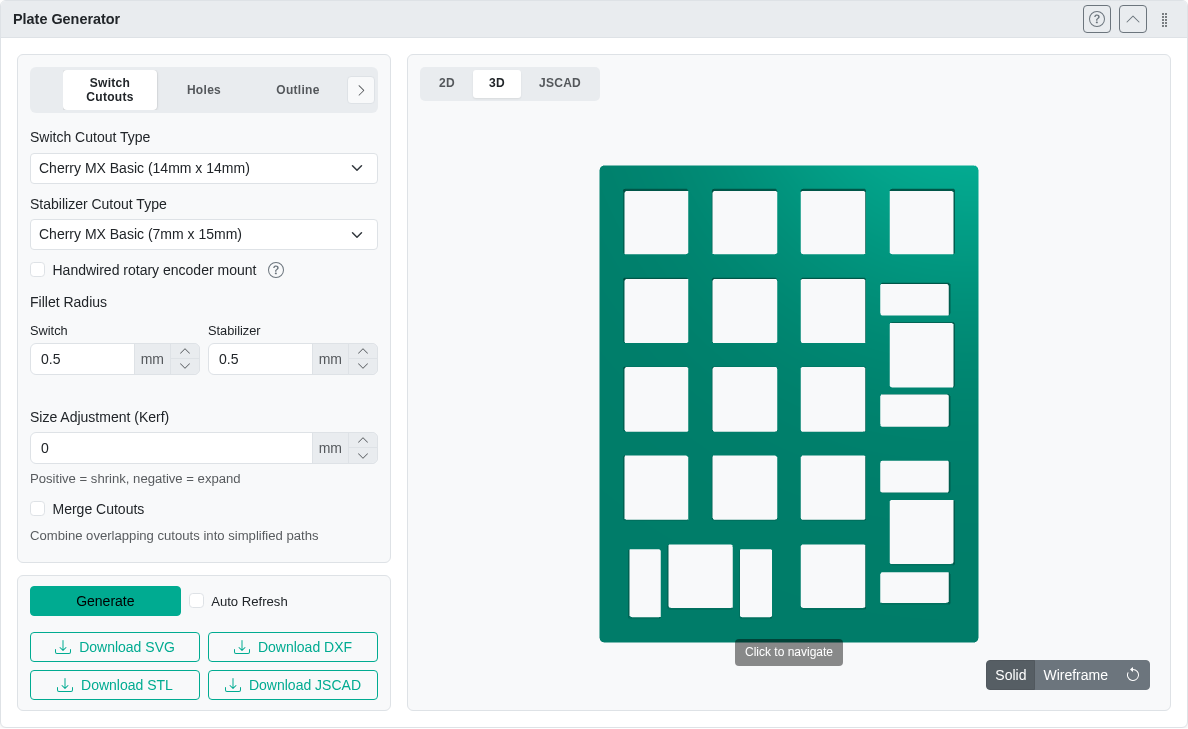
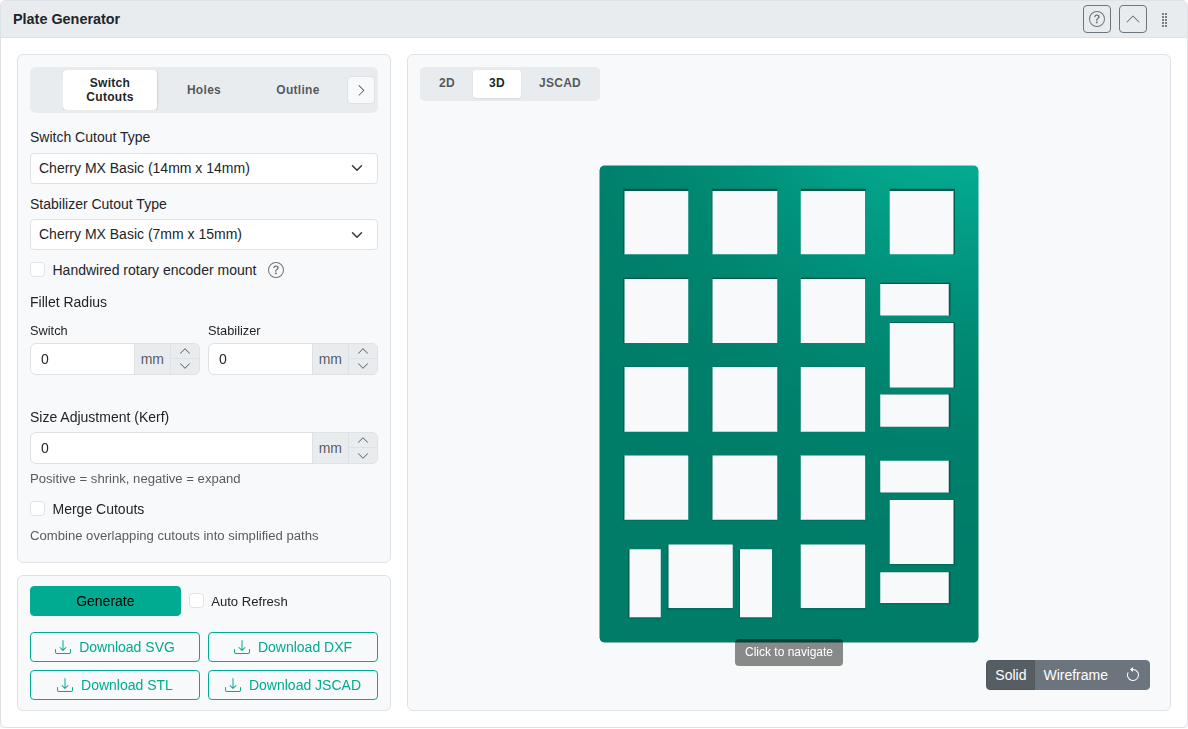
Refresh the plate generator screenshots
The panel, 3D preview and home page shots still had the old 0.5 mm fillet
defaults, the JSON tab no outline and no Defaults button, and the ghost
key examples an Outline tab with Plate Thickness, since moved to 3D. The
examples now both show the Outline tab, the setting they compare.

diff --git a/docs/plate-generator.md b/docs/plate-generator.md
@@ -158,8 +158,8 @@ The **JSON** tab provides direct access to plate settings as formatted JSON. Thi
 - Share or version-control configurations as files
 - Build or modify settings programmatically
 
-<img src="/plate-generator-json-tab-light.png" class="docs-screenshot light-only" alt="Plate Generator JSON tab with Apply, Reset, Download and Upload buttons above the settings JSON and an In sync status bar" style="max-width:374px" />
-<img src="/plate-generator-json-tab-dark.png" class="docs-screenshot dark-only" alt="Plate Generator JSON tab with Apply, Reset, Download and Upload buttons above the settings JSON and an In sync status bar" style="max-width:374px" />
+<img src="/plate-generator-json-tab-light.png" class="docs-screenshot light-only" alt="Plate Generator JSON tab with Apply, Reset, Defaults, Download and Upload buttons above the settings JSON and an In sync status bar" style="max-width:374px" />
+<img src="/plate-generator-json-tab-dark.png" class="docs-screenshot dark-only" alt="Plate Generator JSON tab with Apply, Reset, Defaults, Download and Upload buttons above the settings JSON and an In sync status bar" style="max-width:374px" />
 
 ### Using the JSON Editor
 
